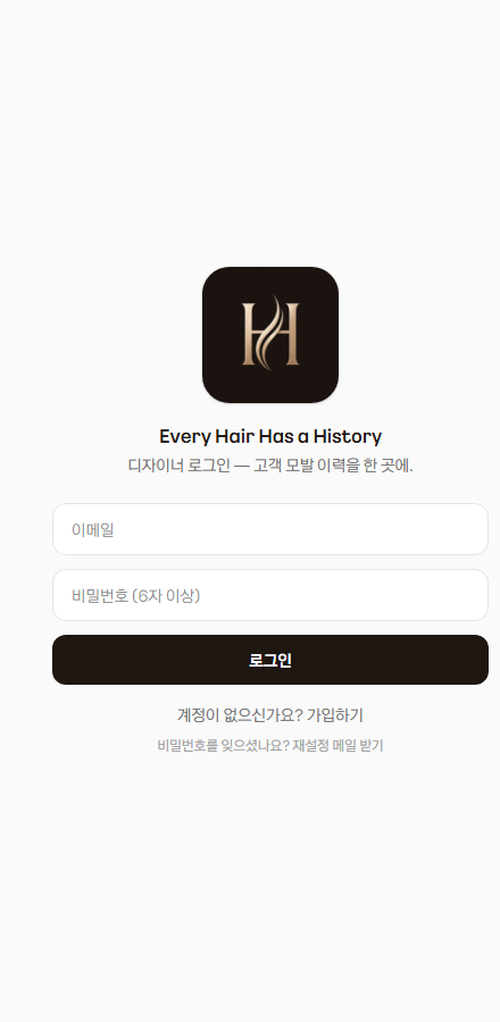
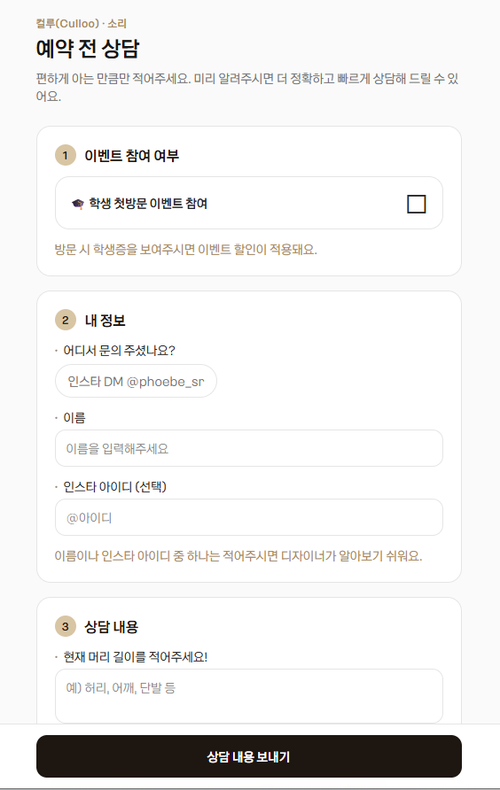
핏노트·헤어노트 실제 인앱 화면으로 교체 + 토스 칩 → '토스 미니앱'

diff --git a/index.html b/index.html
@@ -156,7 +156,7 @@
       <div class="prodgrid">
         <div class="card">
           <div class="shot"><img src="./assets/shot-carenote.png" alt="CareNote 앱 화면" loading="lazy" /></div>
-          <div class="cat">Care · 돌봄 <span class="ch">토스</span></div>
+          <div class="cat">Care · 돌봄 <span class="ch">토스 미니앱</span></div>
           <div class="nm">CareNote</div>
           <div class="desc">가족의 건강을<br />기록하고 이해하도록 돕습니다.</div>
           <a class="detail" href="https://minion.toss.im/13JFgYI" target="_blank" rel="noopener">체험하기 →</a>
@@ -177,7 +177,7 @@
         </div>
         <div class="card">
           <div class="shot"><img src="./assets/shot-ttubagi.png" alt="뚜벅이육아 앱 화면" loading="lazy" /></div>
-          <div class="cat">Parenting · 육아 <span class="ch">토스</span></div>
+          <div class="cat">Parenting · 육아 <span class="ch">토스 미니앱</span></div>
           <div class="nm">뚜벅이육아</div>
           <div class="desc">아이와 갈 곳을<br />쉽게 찾도록 돕습니다.</div>
           <a class="detail" href="https://minion.toss.im/H354XW6t" target="_blank" rel="noopener">체험하기 →</a>